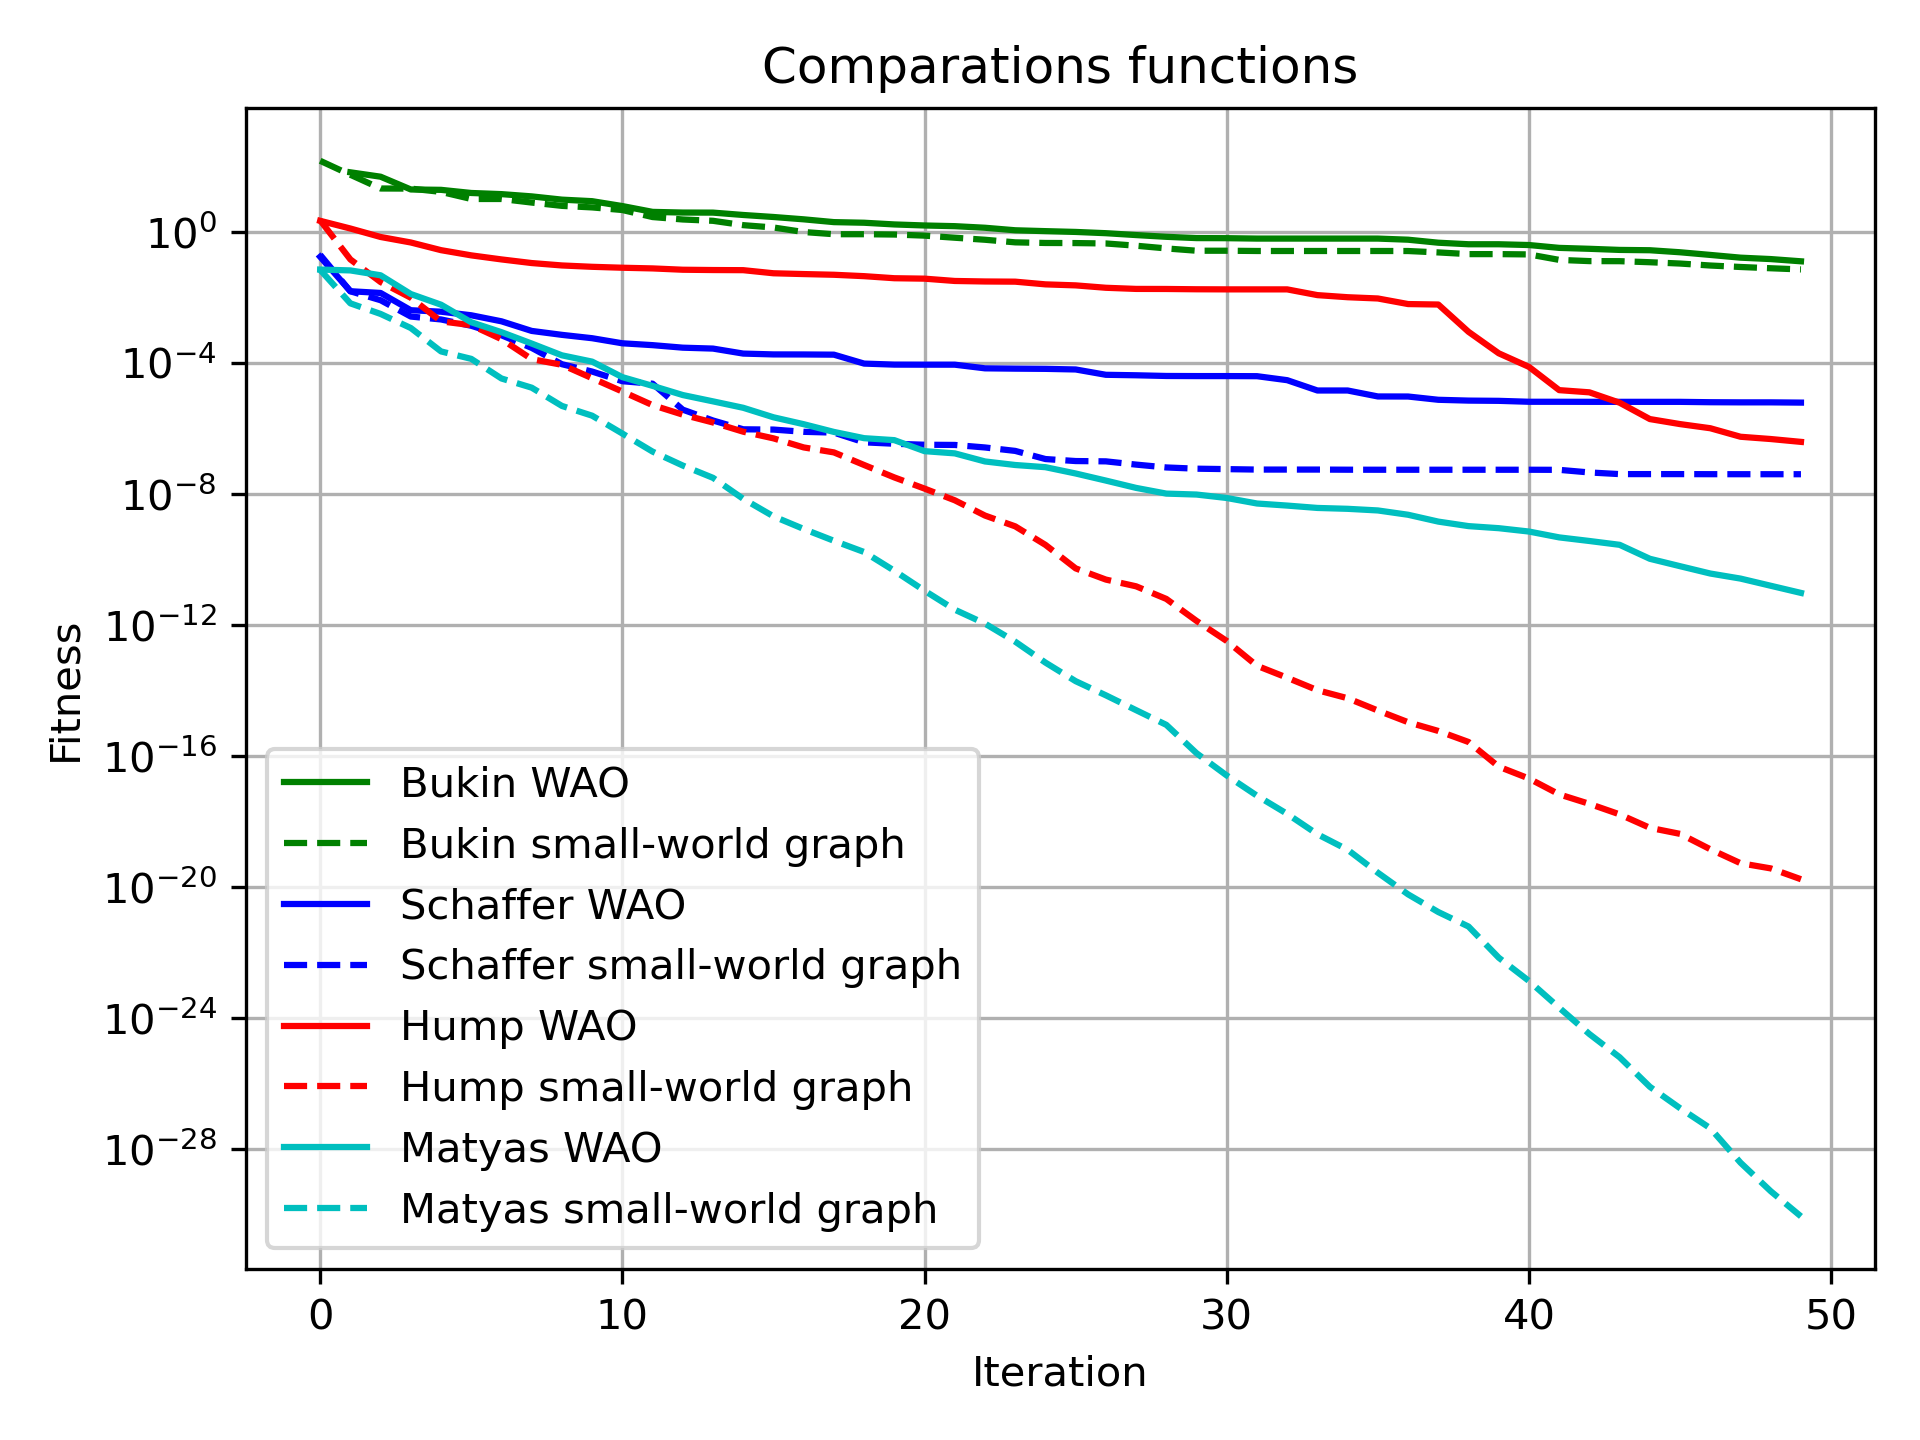
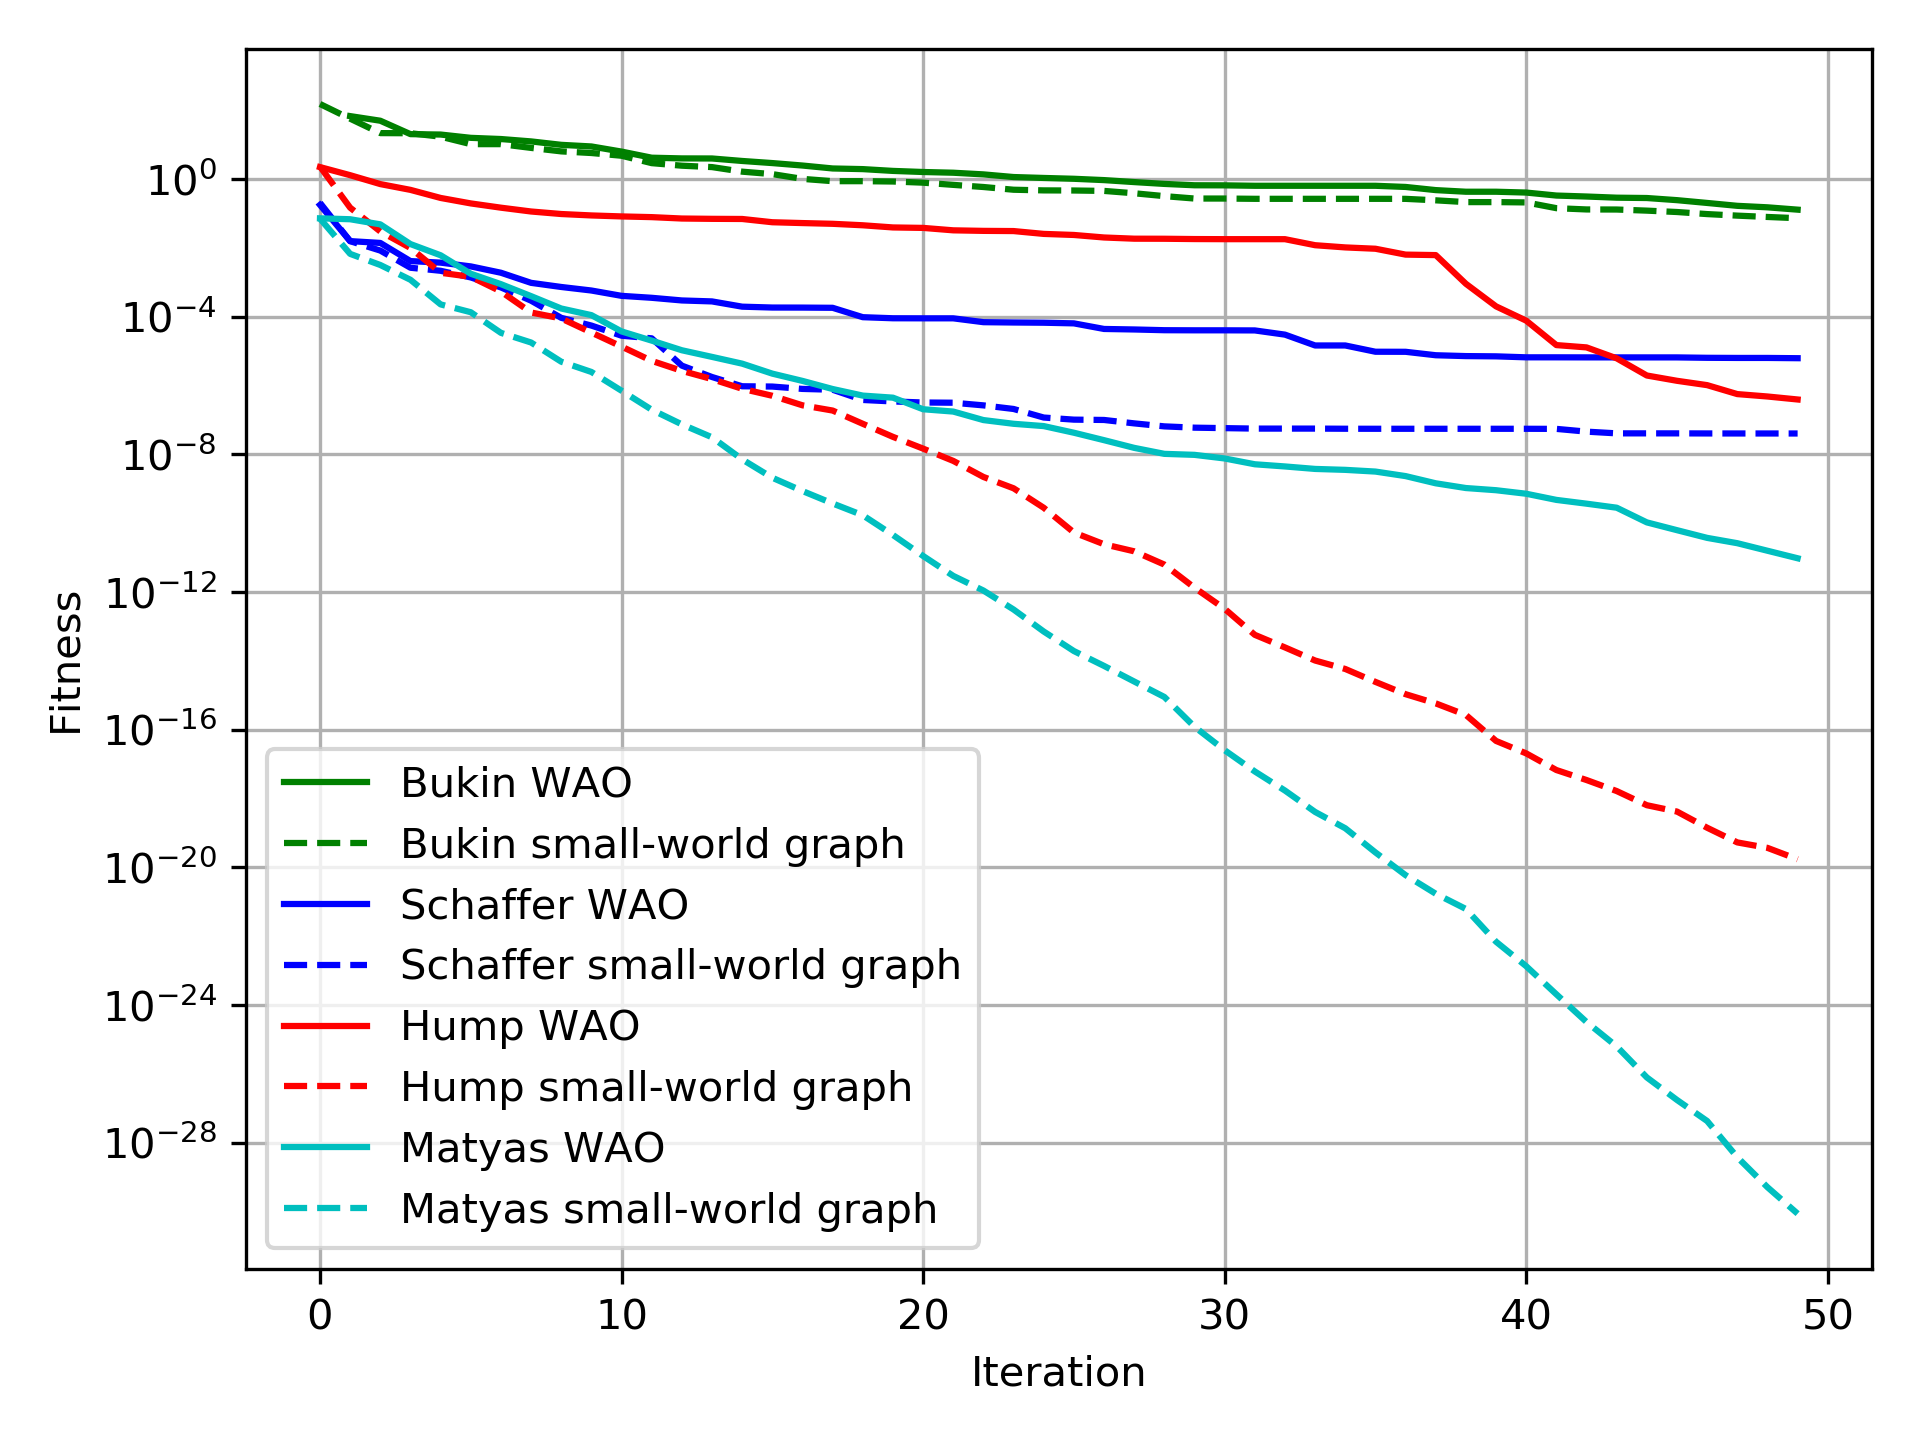
Cambios

diff --git a/papergraphics.py b/papergraphics.py
@@ -42,7 +42,7 @@ plt.savefig("function_eggholder.png")
 """
 
 plt.figure(dpi=300)
-plt.title("Comparations functions")
+#plt.title("Comparations functions")
 plt.grid()
 plt.xlabel("Iteration")
 plt.ylabel("Fitness")
